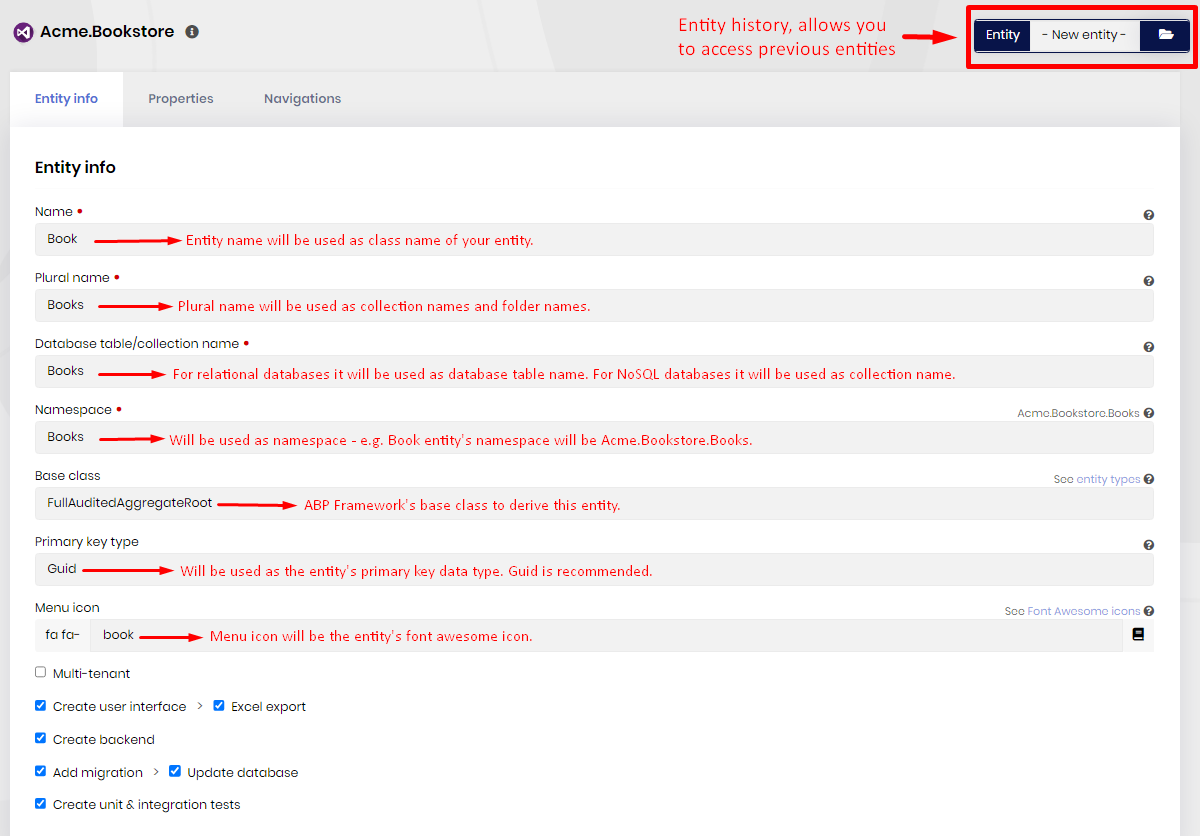
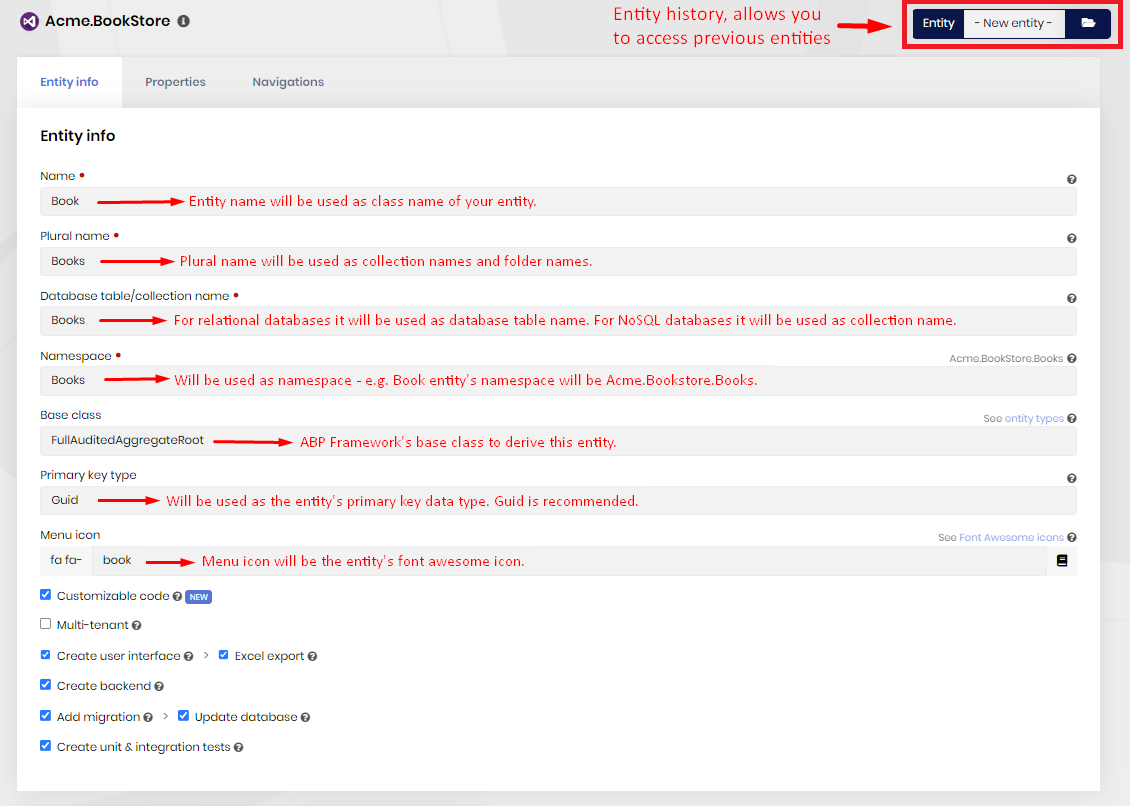
Mention customizable code in suite generating crud page docs

diff --git a/en/abp-suite/generating-crud-page.md b/en/abp-suite/generating-crud-page.md
@@ -71,6 +71,8 @@ To create a new entity, make sure the *-New entity-* is selected in the **Entity
   * Useful for data warehousing
   * Native data type of the OS and easy to work with in all languages
 
+* **Customizable code**: Specifies hook-points to allow adding custom code blocks. Then, the code blocks that written by you will not be overridden in the next entity generation and will be respected.
+
 * **Multi-tenant**: For your multi-tenant application, you can set an entity as multi-tenant which means the data will be isolated between the tenants. To make an entity multi-tenant, ABP Suite adds the `IMultiTenant` interface to the entity.  Further information see [Multi-Tenancy](https://docs.abp.io/{{Document_Language_Code}}/abp/{{Document_Version}}/Multi-Tenancy)
 
 * **Add migration:** Adds a new migration for the new entity. If you are updating an existing entity, it creates an update migration.
